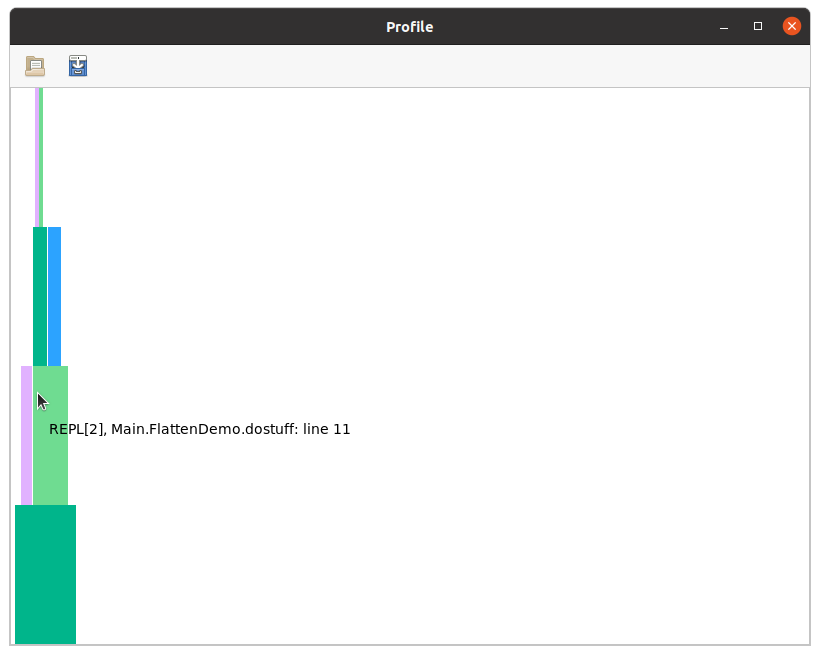
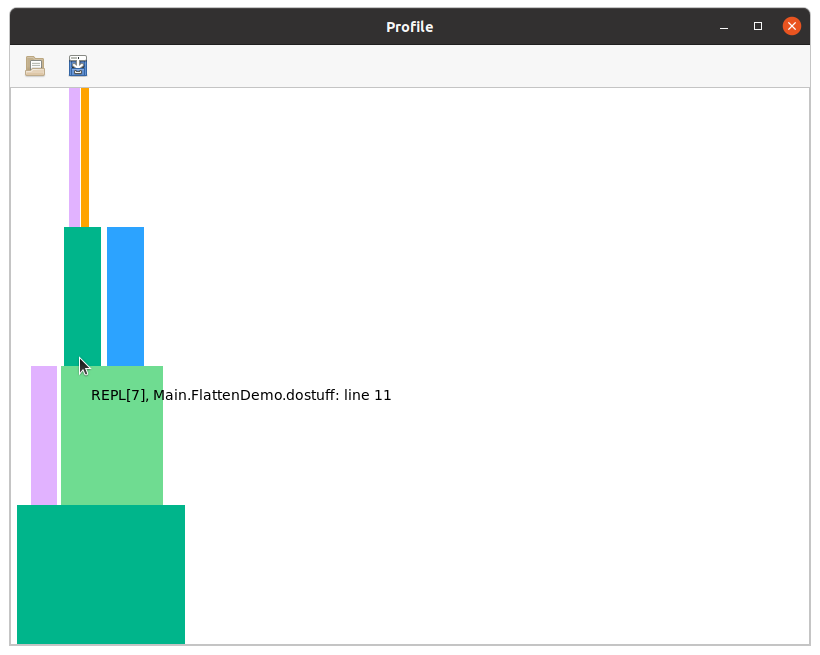
Color constprop-nodes in flamegraph (#272)
Constant-propagation can be an unexpected source of recompilation,
so it makes sense to highlight it. This piggy-backs off of FlameGraph's
marking of GC-events (default coloration yellow) to mark nodes
where one or more non-function arguments has constant-propagation.

Changed region(s): [[0.0, 0.1221, 0.4878, 1.0]]

diff --git a/docs/src/snoopi_deep.md b/docs/src/snoopi_deep.md
@@ -161,6 +161,7 @@ Users are encouraged to read the ProfileView documentation to understand how to 
 - ctrl-click can be used to zoom in
 - empty horizontal spaces correspond to activities other than type-inference
 - any boxes colored red (there are none in this particular example, but you'll see some later) correspond to *non-precompilable* `MethodInstance`s, in which the method is owned by one module but the types are from another unrelated module.
+- any boxes colored orange-yellow (there is one in this demo) correspond to methods inferred for specific constants (constant propagation)
 
 You can explore this flamegraph and compare it to the output from `print_tree`.
 
